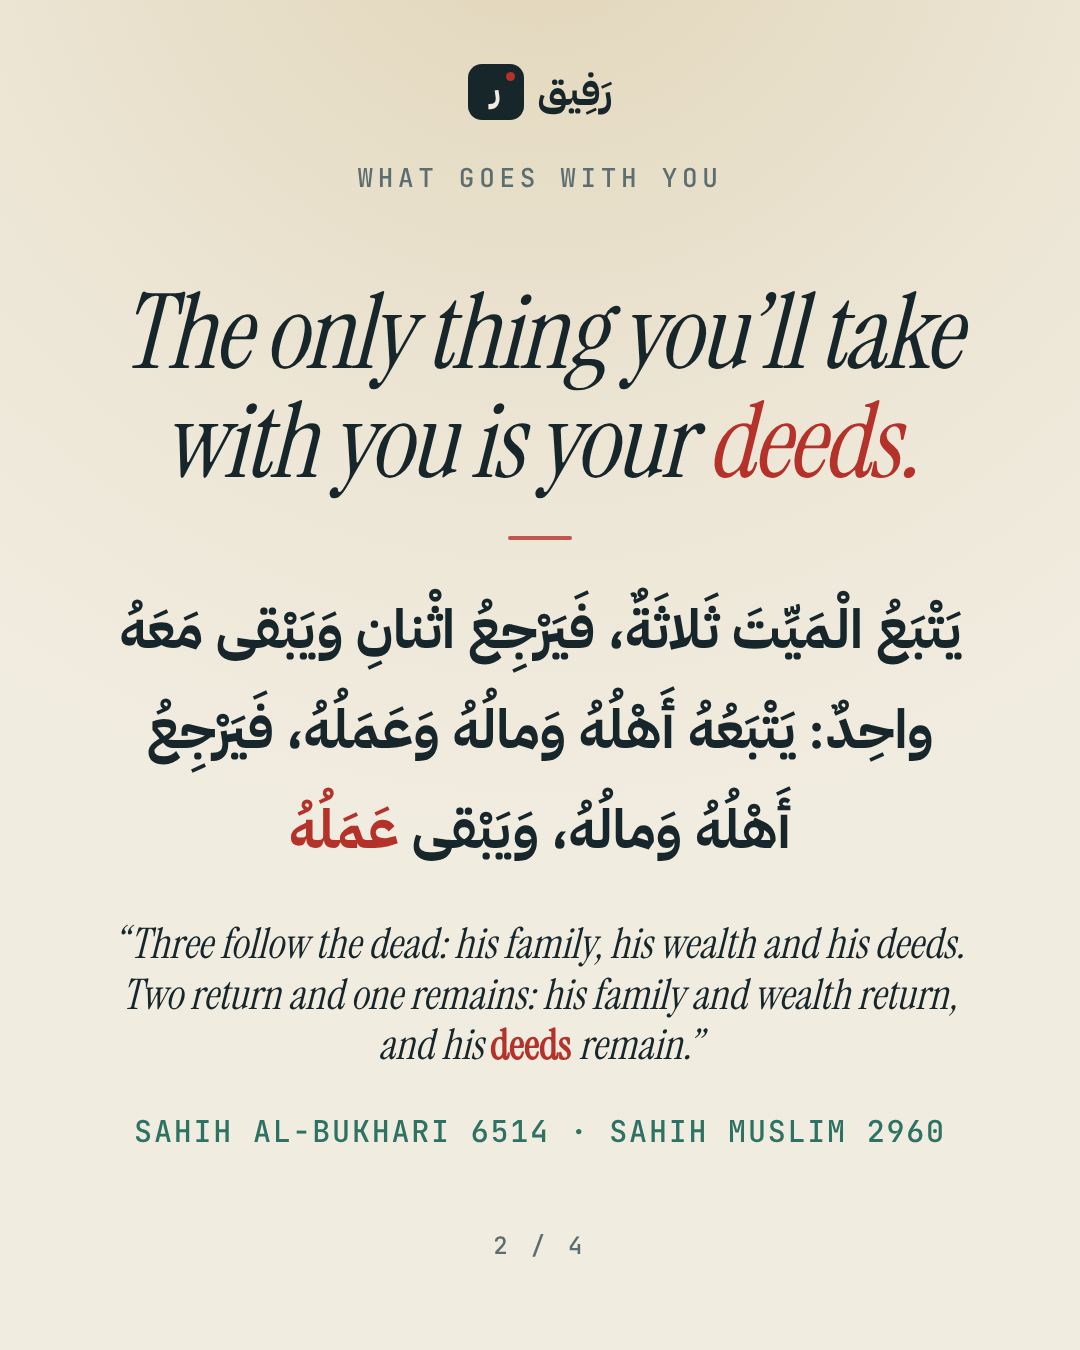
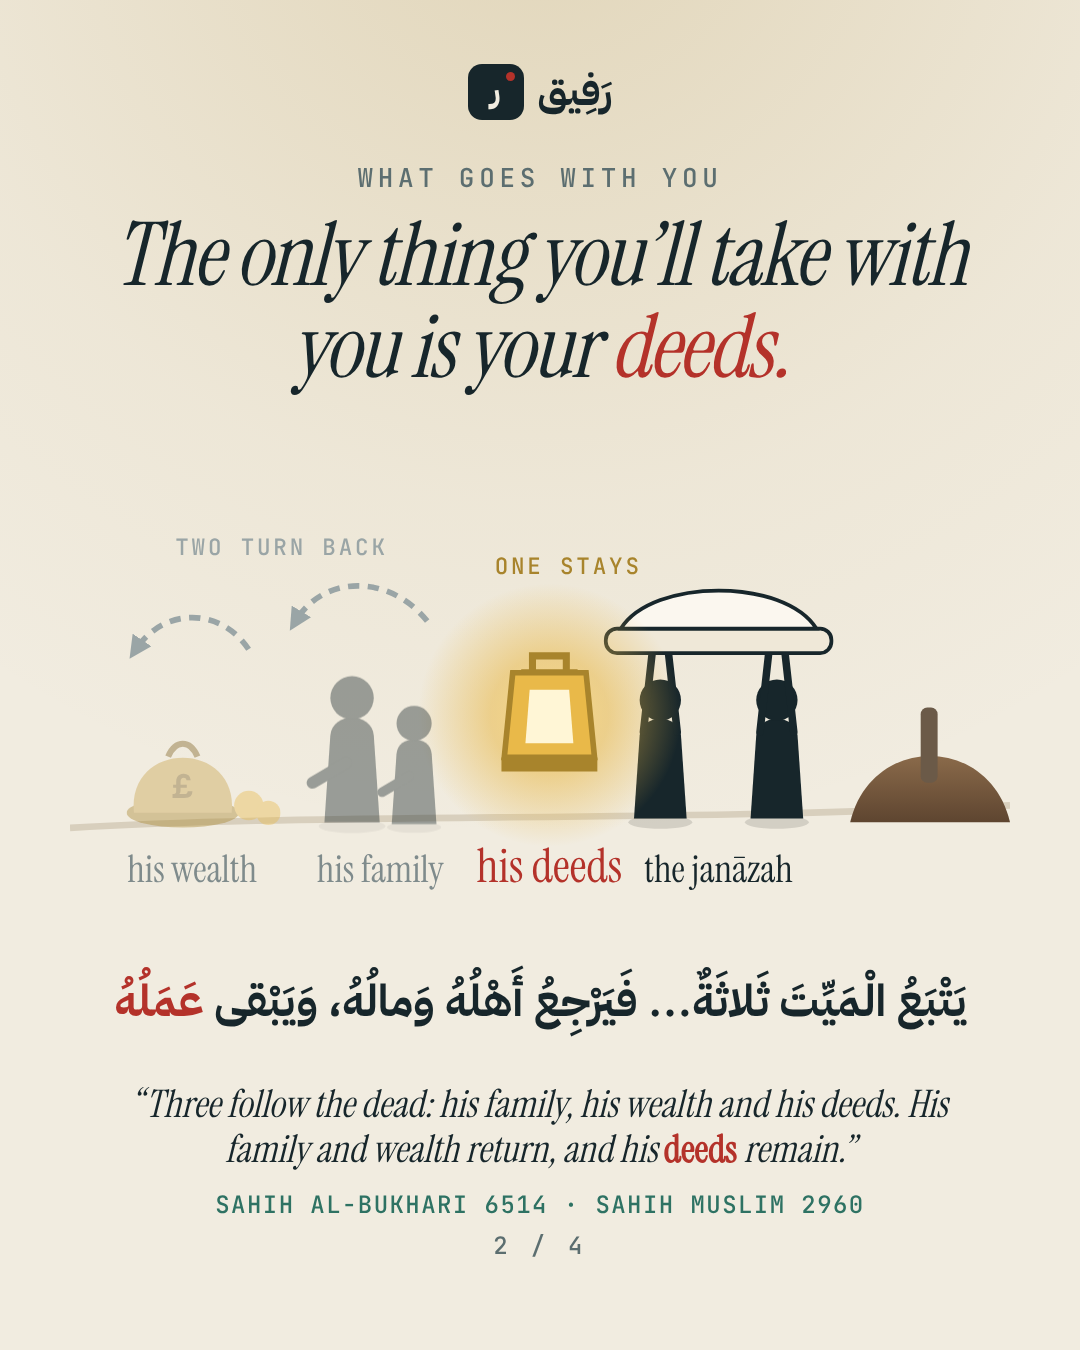
Remember carousel: slide 2 draws the hadith (family and wealth turn back, his deeds stay), slide 3 an hourglass and three drawn steps
Claude-Session: https://claude.ai/code/session_012WUx5AxZX2Tgox72zgHa7p

diff --git a/brag-quiz/build_death_carousel.py b/brag-quiz/build_death_carousel.py
@@ -46,8 +46,62 @@ CSS = G.CSS + f"""
 .line {{ font-family:"Instrument Serif"; font-size:84px; line-height:1.12; letter-spacing:-.01em; color:#F1ECE0; text-shadow:0 4px 30px rgba(0,0,0,.6); }}
 .goldrule {{ width:220px; height:4px; border-radius:2px; background:{G.GOLD}; }}
 .big {{ font-family:"Instrument Serif"; line-height:1.04; letter-spacing:-.02em; }}
+.stps {{ width:100%; display:flex; flex-direction:column; gap:14px; }} .stp {{ display:flex; align-items:center; gap:26px; padding:14px 26px; border-radius:28px; background:#fbf7ef; border:3px solid rgba(23,38,43,.08); text-align:left; }}
+.sic svg {{ width:96px; height:96px; display:block; }} .stx {{ font-family:"Instrument Serif"; font-size:48px; line-height:1.05; }} .stx b {{ font-weight:400; color:{S.RED}; }}
 .cta {{ display:inline-block; padding:22px 54px; border-radius:60px; background:{G.GOLD}; color:#17262B; font-family:"Karla"; font-weight:800; font-size:56px; }}
 """
+
+# slide 2: the hadith drawn: a janāzah carried to the grave; behind it his family, his wealth and his deeds; two turn back, one goes on
+INK, CREAM = "#17262B", "#F1ECE0"
+def person(x, y, s, c, back=False):          # faceless, standing; back: turned, walking away
+    return (f'<g transform="translate({x} {y}) scale({s})"><ellipse cx="0" cy="4" rx="34" ry="7" fill="#000" opacity=".12"/>'
+            f'<path d="M-28 0 L-22 -88 C-20 -112 20 -112 22 -88 L28 0 Z" fill="{c}"/><circle cx="0" cy="-126" r="22" fill="{c}"/>'
+            + (f'<path d="M-6 -60 L-40 -40" stroke="{c}" stroke-width="12" stroke-linecap="round"/>' if back else "") + '</g>')
+FOLLOW = f"""<svg viewBox="0 0 1000 520" style="width:940px;height:489px">
+<defs><radialGradient id="lg"><stop offset="0" stop-color="#ffe9a8"/><stop offset=".45" stop-color="#E9B949" stop-opacity=".55"/><stop offset="1" stop-color="#E9B949" stop-opacity="0"/></radialGradient>
+<linearGradient id="mound" x1="0" y1="0" x2="0" y2="1"><stop offset="0" stop-color="#8a6a4a"/><stop offset="1" stop-color="#5e4530"/></linearGradient>
+<marker id="ah" viewBox="0 0 10 10" refX="5" refY="5" markerWidth="4" markerHeight="4" orient="auto-start-reverse"><path d="M0 0 L10 5 L0 10 Z" fill="#9aa5a6"/></marker></defs>
+<path d="M0 420 C 260 404 640 414 1000 396" stroke="#d8cfbd" stroke-width="7" fill="none"/>
+<path d="M830 414 C 852 320 978 320 1000 414 Z" fill="url(#mound)"/><rect x="905" y="292" width="18" height="80" rx="7" fill="#6b5a48"/>
+<g transform="translate(690 404)">{person(-62, 6, 1.0, INK)}{person(62, 6, 1.0, INK)}
+<path d="M-80 -86 L-70 -176 M-44 -86 L-54 -176 M44 -86 L54 -176 M80 -86 L70 -176" stroke="{INK}" stroke-width="8" stroke-linecap="round"/>
+<rect x="-120" y="-196" width="240" height="26" rx="12" fill="#efe8d8" stroke="{INK}" stroke-width="4"/>
+<path d="M-104 -196 C -70 -250 70 -250 104 -196 Z" fill="#fbf7ef" stroke="{INK}" stroke-width="4"/></g>
+<circle cx="510" cy="300" r="140" fill="url(#lg)"/>
+<g transform="translate(510 360) scale(1.5)"><path d="M-20 -70 H20 M-12 -70 V-82 H12 V-70" stroke="#a8842c" stroke-width="5" fill="none"/>
+<path d="M-26 -70 L-32 -10 H32 L26 -70 Z" fill="#E9B949" stroke="#a8842c" stroke-width="4"/><path d="M-14 -58 L-17 -20 H17 L14 -58 Z" fill="#fff6d6"/>
+<path d="M-34 -10 H34 V0 H-34 Z" fill="#a8842c"/></g>
+<text x="510" y="478" text-anchor="middle" font-family="Instrument Serif" font-size="50" fill="{S.RED}">his deeds</text>
+<text x="690" y="478" text-anchor="middle" font-family="Instrument Serif" font-size="40" fill="{INK}">the janāzah</text>
+<g opacity=".4">{person(300, 414, 1.05, INK, True)}{person(366, 416, 0.85, INK, True)}
+<g transform="translate(120 404) scale(1.3)"><ellipse cx="0" cy="0" rx="46" ry="12" fill="#a8842c"/><path d="M-40 0 C -46 -60 46 -60 40 0 Z" fill="#c9a24a"/>
+<path d="M-12 -46 C -6 -60 6 -60 12 -46" stroke="#7d6020" stroke-width="5" fill="none"/><text x="0" y="-12" text-anchor="middle" font-family="Karla" font-weight="800" font-size="30" fill="#7d6020">£</text>
+<circle cx="54" cy="-6" r="12" fill="#E9B949"/><circle cx="70" cy="0" r="10" fill="#E9B949"/></g></g>
+<path d="M380 200 C 340 150 270 150 240 200" stroke="#9aa5a6" stroke-width="6" fill="none" marker-end="url(#ah)" stroke-dasharray="12 9"/>
+<path d="M190 230 C 160 185 100 185 70 230" stroke="#9aa5a6" stroke-width="6" fill="none" marker-end="url(#ah)" stroke-dasharray="12 9"/>
+<text x="330" y="478" text-anchor="middle" font-family="Instrument Serif" font-size="40" fill="#7f8b8c">his family</text>
+<text x="130" y="478" text-anchor="middle" font-family="Instrument Serif" font-size="40" fill="#7f8b8c">his wealth</text>
+<text x="225" y="130" text-anchor="middle" font-family="JetBrains Mono" font-size="24" letter-spacing="3" fill="#9aa5a6">TWO TURN BACK</text>
+<text x="530" y="150" text-anchor="middle" font-family="JetBrains Mono" font-size="24" letter-spacing="3" fill="#a8842c">ONE STAYS</text></svg>"""
+
+# slide 3: an hourglass running low, then the three steps, each drawn
+HOURGLASS = f"""<svg viewBox="0 0 300 330" style="width:250px;height:275px">
+<defs><linearGradient id="gl" x1="0" y1="0" x2="1" y2="0"><stop offset="0" stop-color="#fff" stop-opacity=".55"/><stop offset=".5" stop-color="#fff" stop-opacity=".15"/><stop offset="1" stop-color="#fff" stop-opacity=".45"/></linearGradient>
+<linearGradient id="sand" x1="0" y1="0" x2="0" y2="1"><stop offset="0" stop-color="#E9B949"/><stop offset="1" stop-color="#c9902e"/></linearGradient></defs>
+<rect x="40" y="10" width="220" height="22" rx="10" fill="#6b4a2a"/><rect x="40" y="298" width="220" height="22" rx="10" fill="#6b4a2a"/>
+<rect x="52" y="30" width="12" height="270" fill="#8a6a44"/><rect x="236" y="30" width="12" height="270" fill="#8a6a44"/>
+<path d="M78 34 H222 C 222 110 160 140 156 165 C 160 190 222 220 222 296 H78 C 78 220 140 190 144 165 C 140 140 78 110 78 34 Z" fill="#e9eef0" stroke="{INK}" stroke-width="4"/>
+<path d="M118 120 H182 C 172 140 158 150 152 162 H148 C 142 150 128 140 118 120 Z" fill="url(#sand)"/>
+<rect x="148" y="162" width="4" height="110" fill="#E9B949"/>
+<path d="M84 294 C 96 240 130 228 150 226 C 170 228 204 240 216 294 Z" fill="url(#sand)"/>
+<path d="M78 34 H222 C 222 110 160 140 156 165 C 160 190 222 220 222 296 H78 C 78 220 140 190 144 165 C 140 140 78 110 78 34 Z" fill="url(#gl)"/></svg>"""
+def step(icon, line, n):
+    return (f'<div class="stp"><div class="sic">{icon}</div><div class="stx"><span class="mono" style="font-size:22px">STEP {n}</span><br>{line}</div></div>')
+I_BOOK = f'<svg viewBox="0 0 100 100"><path d="M50 26 C38 18 22 18 12 24 V80 C22 74 38 74 50 82 C62 74 78 74 88 80 V24 C78 18 62 18 50 26 Z" fill="#fbe3d2" stroke="#e09868" stroke-width="5"/><path d="M50 26 V82" stroke="#e09868" stroke-width="5"/><text x="69" y="58" text-anchor="middle" font-family="Plex Arabic" font-weight="700" font-size="24" fill="{S.RED}">ع</text><text x="31" y="58" text-anchor="middle" font-family="Plex Arabic" font-weight="700" font-size="24" fill="{INK}">ا ب</text></svg>'
+I_HANDS = '<svg viewBox="0 0 100 100"><path d="M22 92 V30 C 22 12 78 12 78 30 V92 Z" fill="#dcefe6" stroke="#6aa893" stroke-width="5" stroke-linejoin="round"/><path d="M34 82 V36 C 34 24 66 24 66 36 V82" fill="none" stroke="#6aa893" stroke-width="4"/><path d="M22 92 H78 M28 97 V92 M40 97 V92 M52 97 V92 M64 97 V92 M74 97 V92" stroke="#6aa893" stroke-width="4" stroke-linecap="round"/><circle cx="50" cy="42" r="5" fill="#6aa893"/></svg>'
+I_LIGHT = '<svg viewBox="0 0 100 100"><circle cx="50" cy="50" r="18" fill="#f8ebc4" stroke="#d1a63c" stroke-width="5"/>' + "".join(f'<path d="M50 50 m{__import__("math").cos(a)*26:.1f} {__import__("math").sin(a)*26:.1f} l{__import__("math").cos(a)*14:.1f} {__import__("math").sin(a)*14:.1f}" stroke="#d1a63c" stroke-width="5" stroke-linecap="round"/>' for a in [k * 0.785 for k in range(8)]) + '</svg>'
+STEPS = ('<div class="stps">' + step(I_BOOK, "Learn <b>Arabic</b>.", 1) + step(I_HANDS, "Understand what you say to <b>Allah</b>.", 2)
+         + step(I_LIGHT, "Connect with <b>Him</b>.", 3) + '</div>')
 
 def slides():
     page = G.page
@@ -57,16 +111,13 @@ def slides():
     one = one.replace('<body class="dark">', '<body class="dark grave">' + GRAVE, 1)
     return {
      "1": one,
-     "2": page(2, "What goes with you", '<div class="big" style="font-size:104px">The only thing you’ll take with you is your <span class="acc">deeds.</span></div>'
-               '<div class="rule"></div>'
-               '<div class="arb" style="font-size:54px;line-height:1.85">يَتْبَعُ الْمَيِّتَ ثَلاثَةٌ، فَيَرْجِعُ اثْنانِ وَيَبْقى مَعَهُ واحِدٌ: يَتْبَعُهُ أَهْلُهُ وَمالُهُ وَعَمَلُهُ، '
-               'فَيَرْجِعُ أَهْلُهُ وَمالُهُ، وَيَبْقى <span class="acc">عَمَلُهُ</span></div>'
-               '<div class="it" style="font-size:42px">“Three follow the dead: his family, his wealth and his deeds. Two return and one remains: '
-               'his family and wealth return, and his <b style="font-style:normal;color:' + S.RED + '">deeds</b> remain.”</div>'
-               '<div class="mono" style="color:#2e7263;font-weight:500">SAHIH AL-BUKHARI 6514 · SAHIH MUSLIM 2960</div>'),
-     "3": page(3, "While you still have time", '<div class="big" style="font-size:118px">So make the effort while you still <span class="acc">have time.</span></div>'
-               '<div class="rule"></div>'
-               '<div class="it" style="font-size:58px;line-height:1.3">Learn Arabic.<br>Understand what you say to Allah.<br>Connect with Him.</div>'),
+     "2": page(2, "What goes with you", '<div class="big" style="font-size:88px">The only thing you’ll take with you is your <span class="acc">deeds.</span></div>'
+               + FOLLOW +
+               '<div class="arb" style="font-size:44px;line-height:1.8">يَتْبَعُ الْمَيِّتَ ثَلاثَةٌ… فَيَرْجِعُ أَهْلُهُ وَمالُهُ، وَيَبْقى <span class="acc">عَمَلُهُ</span></div>'
+               '<div class="it" style="font-size:38px">“Three follow the dead: his family, his wealth and his deeds. His family and wealth return, and his '
+               '<b style="font-style:normal;color:' + S.RED + '">deeds</b> remain.”</div><div class="mono" style="font-size:24px;color:#2e7263;margin-top:-24px">SAHIH AL-BUKHARI 6514 · SAHIH MUSLIM 2960</div>'),
+     "3": page(3, "While you still have time", '<div class="big" style="font-size:96px">So make the effort while you still <span class="acc">have time.</span></div>'
+               + HOURGLASS + STEPS),
      "4": page(4, "Start today", '<div class="big" style="font-size:112px;color:#F1ECE0">Kick-start your <span class="acc">Arabic</span> journey</div>'
                '<div class="it" style="font-size:52px;color:rgba(241,236,224,.85)">Understand every word of your salah, a few minutes a day.</div>'
                '<div class="cta">rafiq-arabic.com</div><div class="mono" style="color:rgba(241,236,224,.6)">FREE FOR A WEEK · LINK IN BIO</div>', dark=True, foot="")}
